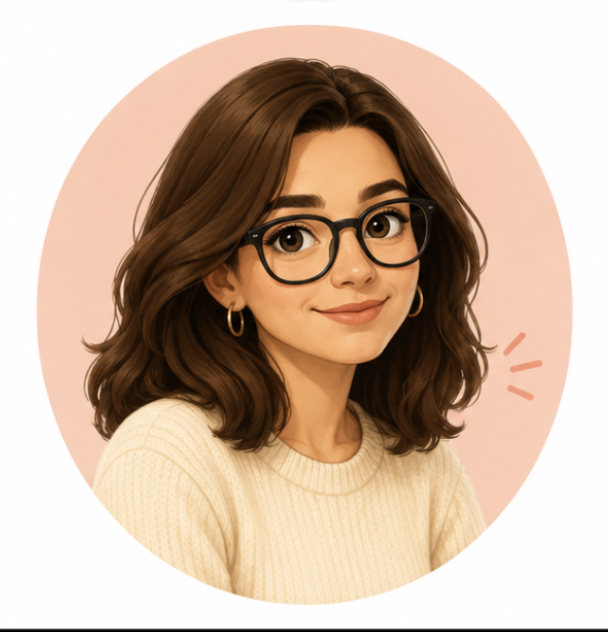
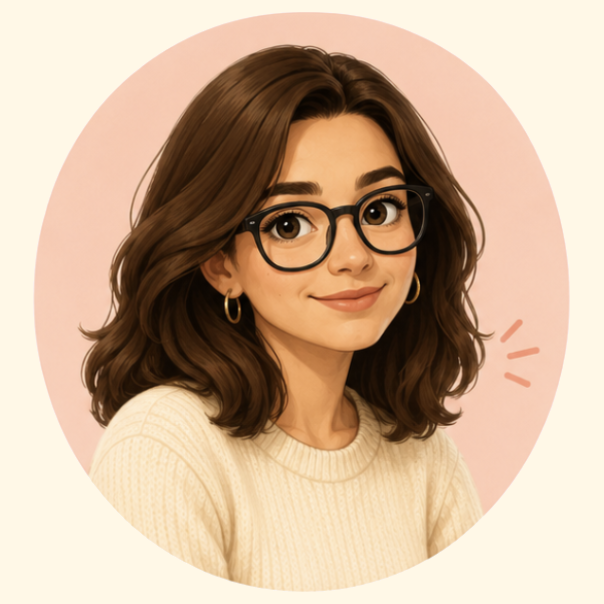
Vitrină de 8 clienți pe panou, pozele echipei pe cremul site-ului
Panoul: doar 8 logouri, în ordinea cerută (Piano House, Casa Irlandeză,
Belvedere Murighiol, La Nașu, Elektro Kasper, Caprice, Izora, Viovas), plus
un buton „Vezi toate proiectele" care duce în portofoliu. Ordinea stă în
`sloguriVitrina`, la finalul lui clienti.ts. Ceilalți nu dispar: trec prin
banda de deasupra și apar toți în Portofoliu.

Butonul are umbra crem, nu neagră — pe panoul negru cea neagră nu se vedea
și butonul își pierdea relieful.

Echipa: pozele veneau cu fundal alb (#fefefe), care nu e cremul cardului
(#fff8e7) — se vedea un pătrat mai deschis în jurul fiecărui portret.
scripts/prep-echipa.py găsește fundalul pornind din colțuri (deci albul din
haine rămâne neatins), îl vopsește exact în crem și taie poza fix pe cerc.
Se rulează cu `npm run echipa`. Una din poze avea și o dungă neagră rămasă
pe muchia de jos de la salvarea capturii — o recunoaște după faptul că e
perfect plată, cum nu are cum să fie un rând din portret.

Cardul arată acum numele mic, iar sub el rolul. Numele (Emanuel, Ioana,
Bogdan, Sofia, David) sunt cele din fișierele originale.

diff --git a/src/data/echipa.ts b/src/data/echipa.ts
@@ -5,17 +5,19 @@
  *  Ordinea de aici e ordinea de pe site.
  *
  *  POZELE stau in src/assets/echipa/. Campul `imagine` e numele
- *  fisierului FARA extensie. Ca sa schimbi o poza, inlocuieste
- *  fisierul pastrand acelasi nume — nu trebuie sa modifici nimic aici.
+ *  fisierului FARA extensie. Ca sa schimbi o poza, pune originalul in
+ *  /Echipa/ si ruleaza `npm run echipa` — scriptul ii scoate fundalul alb
+ *  si il inlocuieste cu cremul site-ului.
  *  Daca `imagine` e "" sau fisierul lipseste, se deseneaza automat
  *  un avatar-substitut, ca sa nu ramana un loc gol.
  * ============================================================
  */
 
 export type Membru = {
-  /** Rolul — asta e titlul cardului. */
+  /** Rolul, scris sub nume. */
   rol: string;
-  /** Numele persoanei. Optional: lasa "" si se afiseaza doar rolul. */
+  /** Numele persoanei — asta e titlul cardului.
+   *  Optional: lasa "" si ramane doar rolul. */
   nume: string;
   /** O singura propozitie, pe intelesul oricui. Fara termeni tehnici. */
   descriere: string;
@@ -29,7 +31,7 @@ export type Membru = {
 export const echipa: Membru[] = [
   {
     rol: "Project Manager",
-    nume: "", // ⚠ pune numele aici daca vrei sa apara
+    nume: "Emanuel",
     descriere:
       "Persoana cu care vorbești de la primul mesaj până la lansare: înțelege ce vrei, ține totul în grafic și îți spune mereu unde suntem.",
     atributii: ["Discuția inițială", "Obiective", "Structura site-ului", "Termene"],
@@ -38,7 +40,7 @@ export const echipa: Membru[] = [
   },
   {
     rol: "UX/UI Designer",
-    nume: "",
+    nume: "Ioana",
     descriere:
       "Decide cum arată site-ul și unde stă fiecare buton, ca vizitatorul să găsească din prima ce caută, fără să se piardă.",
     atributii: ["Aspectul paginilor", "Culori și fonturi", "Identitate vizuală"],
@@ -47,7 +49,7 @@ export const echipa: Membru[] = [
   },
   {
     rol: "Web Developer",
-    nume: "",
+    nume: "Bogdan",
     descriere:
       "Transformă desenul în site care chiar funcționează — la fel de bine pe telefon, pe tabletă și pe calculator.",
     atributii: ["Construcția site-ului", "Funcționalități", "Afișare pe telefon"],
@@ -56,7 +58,7 @@ export const echipa: Membru[] = [
   },
   {
     rol: "Content & Copywriting",
-    nume: "",
+    nume: "Sofia",
     descriere:
       "Scrie textele de pe site, ca omul care intră să înțeleagă din primele secunde ce faci și de ce merită să te aleagă.",
     atributii: ["Textele paginilor", "Descrieri de servicii", "Optimizare pentru Google"],
@@ -65,7 +67,7 @@ export const echipa: Membru[] = [
   },
   {
     rol: "QA & Optimizare",
-    nume: "",
+    nume: "David",
     descriere:
       "Verifică tot site-ul înainte de lansare și se asigură că se încarcă repede și că nimic nu se strică pe niciun telefon.",
     atributii: ["Testare pe dispozitive reale", "Viteză de încărcare", "Verificări finale"],

diff --git a/src/data/clienti.ts b/src/data/clienti.ts
@@ -287,8 +287,32 @@ export function clientDupaSlug(slug: string): Client | undefined {
   return clienti.find((c) => c.slug === slug);
 }
 
+/**
+ * VITRINA — cei opt clienti afisati pe panoul de pe prima pagina, exact in
+ * ordinea de mai jos. Restul nu dispar: se vad in banda care ruleaza deasupra
+ * si toti, pana la ultimul, in sectiunea Portofoliu.
+ *
+ * Ca sa schimbi vitrina, rescrie slugurile de aici. Un slug scris gresit e
+ * pur si simplu sarit, nu strica pagina.
+ */
+export const sloguriVitrina = [
+  "piano-house",
+  "casa-irlandeza",
+  "pensiunea-belvedere",
+  "pensiunea-la-nasu",
+  "elektro-kasper",
+  "caprice-events",
+  "pensiunea-izora",
+  "scoala-auto-viovas",
+] as const;
+
 /** Clientul urmator din lista, ca vizitatorul sa continue navigarea. */
 export function clientUrmator(slug: string): Client {
   const i = clienti.findIndex((c) => c.slug === slug);
   return clienti[(i + 1) % clienti.length]!;
 }
+
+/** Clientii din vitrina, in ordinea din `sloguriVitrina`. */
+export const clientiVitrina: Client[] = sloguriVitrina
+  .map((slug) => clientDupaSlug(slug))
+  .filter((c): c is Client => c !== undefined);

diff --git a/src/styles/global.css b/src/styles/global.css
@@ -210,6 +210,12 @@ h1, h2, h3, h4 {
   image-rendering: -webkit-optimize-contrast;
 }
 
+/* Pe panoul negru, umbra neagra a butoanelor nu se vede si relieful dispare.
+   O facem crem, ca butonul sa arate la fel de „apasabil" ca pe restul paginii. */
+.nb-pe-negru { box-shadow: 6px 6px 0 var(--color-crem); }
+.nb-pe-negru.nb-press:hover { box-shadow: 9px 9px 0 var(--color-crem); }
+.nb-pe-negru.nb-press:active { box-shadow: 2px 2px 0 var(--color-crem); }
+
 /* ============================================================
    MISCARE
    ============================================================ */

diff --git a/scripts/prep-echipa.py b/scripts/prep-echipa.py
@@ -1,0 +1,167 @@
+#!/usr/bin/env python3
+"""
+Pregateste pozele echipei pentru site.
+
+Pozele vin ca portret rotund asezat pe un fundal alb. Alb-ul ala (#fefefe)
+NU e acelasi cu cremul site-ului (#fff8e7), asa ca in card se vedea un patrat
+mai deschis in jurul portretului. Scriptul:
+
+  1. gaseste fundalul (zona alba lipita de marginea pozei, nu si albul din
+     haine — porneste din colturi si se intinde doar prin pixeli vecini);
+  2. il vopseste exact in cremul site-ului, ca sa se piarda in card;
+  3. taie poza fix pe cerc si o aduce la patrat, ca toate cele cinci sa aiba
+     aceeasi marime;
+  4. o micsoreaza la 640px — dublul dimensiunii la care e afisata, cat sa fie
+     clara si pe ecrane retina.
+
+Portretul in sine nu e atins: nici decupat, nici recolorat.
+
+Rulare:  python3 scripts/prep-echipa.py
+"""
+
+from __future__ import annotations
+
+import sys
+from pathlib import Path
+
+from PIL import Image, ImageChops, ImageDraw, ImageFilter
+
+SURSA = Path("Echipa")
+DEST = Path("src/assets/echipa")
+
+# Cremul din src/styles/global.css (--color-crem). Daca il schimbi acolo,
+# schimba-l si aici si ruleaza scriptul din nou.
+CREM = (0xFF, 0xF8, 0xE7)
+
+# Fisier original -> numele fisierului final (campul `imagine` din echipa.ts)
+HARTA = {
+    "Project Manager - Emanuel.png": "project-manager",
+    "UX:UI Designer - Ioana.png": "ux-ui-designer",
+    "Web Developer- Bogdan.png": "web-developer",
+    "Copywriting Specialist - Sofia.png": "copywriting",
+    "QA & Optimization - David.png": "qa-optimizare",
+}
+
+LATURA = 640  # dublul celor 320px la care e afisata poza pe ecran mare
+
+
+def taie_dunga_de_pe_margine(im: Image.Image) -> Image.Image:
+    """Scoate dunga ramasa pe marginea unei capturi.
+
+    Una din poze avea pe muchia de jos patru randuri de la negru spre alb —
+    resturi de la salvarea capturii. Daca le lasam, umplerea din colturi le
+    ocolea si ramaneau ca o linie sub portret.
+
+    Le recunoastem dupa faptul ca sunt PLATE: un rand de 600 de pixeli din
+    portret are mereu variatie, o dunga de captura are toti pixelii identici.
+    """
+    r, g, b = im.split()
+    minim = ImageChops.darker(ImageChops.darker(r, g), b)
+    px = minim.load()
+
+    def intunecat(pixeli) -> bool:
+        pixeli = list(pixeli)
+        plat = max(pixeli) - min(pixeli) <= 8
+        return plat and sum(pixeli) / len(pixeli) < 235
+
+    x0, y0, x1, y1 = 0, 0, im.width, im.height
+    for _ in range(8):
+        if y0 < y1 and intunecat(px[x, y0] for x in range(x0, x1)):
+            y0 += 1
+        elif y0 < y1 and intunecat(px[x, y1 - 1] for x in range(x0, x1)):
+            y1 -= 1
+        elif x0 < x1 and intunecat(px[x0, y] for y in range(y0, y1)):
+            x0 += 1
+        elif x0 < x1 and intunecat(px[x1 - 1, y] for y in range(y0, y1)):
+            x1 -= 1
+        else:
+            break
+
+    return im if (x0, y0, x1, y1) == (0, 0, im.width, im.height) else im.crop((x0, y0, x1, y1))
+
+
+def masca_fundal(im: Image.Image) -> Image.Image:
+    """Zona de fundal: alb lipit de marginea pozei.
+
+    Pornim din cele patru colturi si ne intindem doar prin pixeli albi vecini.
+    Asa albul din camasa sau din pulover ramane neatins — nu are cum sa fie
+    legat de marginea pozei fara sa treaca prin portret.
+    """
+    r, g, b = im.split()
+    minim = ImageChops.darker(ImageChops.darker(r, g), b)
+    alb = minim.point(lambda v: 255 if v >= 240 else 0)
+
+    colturi = [(0, 0), (im.width - 1, 0), (0, im.height - 1), (im.width - 1, im.height - 1)]
+    for coltz in colturi:
+        if alb.getpixel(coltz) == 255:
+            ImageDraw.floodfill(alb, coltz, 128)
+    return alb.point(lambda v: 255 if v == 128 else 0)
+
+
+def vopseste(im: Image.Image, fundal: Image.Image) -> Image.Image:
+    """Inlocuieste fundalul cu crem, inclusiv firul de pixeli de pe muchie.
+
+    Marginea cercului e antialiasata: are un fir de pixeli intre alb si
+    portret, pe care umplerea din colturi nu-l prinde. Il luam separat —
+    doar pe cei care sunt inca aproape albi — ca sa nu ramana un inel palid
+    in jurul portretului.
+    """
+    plin = Image.new("RGB", im.size, CREM)
+    im = Image.composite(plin, im, fundal)
+
+    r, g, b = im.split()
+    minim = ImageChops.darker(ImageChops.darker(r, g), b)
+    vecinatate = fundal.filter(ImageFilter.MaxFilter(5))
+    muchie = ImageChops.multiply(vecinatate, minim.point(lambda v: 255 if v >= 246 else 0))
+    return Image.composite(plin, im, muchie)
+
+
+def taie_pe_cerc(im: Image.Image, fundal: Image.Image) -> Image.Image:
+    """Taie fix pe portret, apoi completeaza cu crem pana iese patrat."""
+    cutie = fundal.point(lambda v: 0 if v == 255 else 255).getbbox()
+    if not cutie:
+        return im
+
+    aer = round(max(cutie[2] - cutie[0], cutie[3] - cutie[1]) * 0.02)
+    x0 = max(0, cutie[0] - aer)
+    y0 = max(0, cutie[1] - aer)
+    x1 = min(im.width, cutie[2] + aer)
+    y1 = min(im.height, cutie[3] + aer)
+    im = im.crop((x0, y0, x1, y1))
+
+    latura = max(im.size)
+    patrat = Image.new("RGB", (latura, latura), CREM)
+    patrat.paste(im, ((latura - im.width) // 2, (latura - im.height) // 2))
+    return patrat
+
+
+def main() -> int:
+    if not SURSA.is_dir():
+        print(f"Lipseste folderul {SURSA}/ — pozele originale ale echipei.", file=sys.stderr)
+        return 1
+    DEST.mkdir(parents=True, exist_ok=True)
+
+    for fisier, slug in HARTA.items():
+        cale = SURSA / fisier
+        if not cale.exists():
+            print(f"  ! lipseste {cale}", file=sys.stderr)
+            continue
+
+        im = Image.open(cale).convert("RGB")
+        im = taie_dunga_de_pe_margine(im)
+        fundal = masca_fundal(im)
+        im = vopseste(im, fundal)
+        im = taie_pe_cerc(im, fundal)
+
+        if im.width > LATURA:
+            im = im.resize((LATURA, LATURA), Image.LANCZOS)
+
+        iesire = DEST / f"{slug}.png"
+        im.save(iesire, optimize=True)
+        print(f"  ✓ {slug:18s} {im.width}×{im.height}  {iesire.stat().st_size // 1024:4d} KB")
+
+    return 0
+
+
+if __name__ == "__main__":
+    raise SystemExit(main())

diff --git a/README.md b/README.md
@@ -41,6 +41,11 @@ Ca să adaugi un client: copiază un bloc `{ ... }`, lipește-l în listă, schi
 
 **`logo` și `logoFundal`** le completează scriptul de logouri, nu tu de mână. Vezi mai jos.
 
+**Pe prima pagină apar doar 8 clienți**, cei din lista `sloguriVitrina` de la finalul
+fișierului, exact în ordinea de acolo. Ceilalți nu dispar: trec prin banda care rulează
+deasupra și apar toți în secțiunea Portofoliu, la care duce butonul „Vezi toate proiectele".
+Ca să schimbi vitrina, rescrie slugurile din listă.
+
 **`linkSite`** e câmpul pe care îl completezi la final. Cât timp e `""`, butonul afișează
 „Site-ul se publică în curând" și nu duce nicăieri — nu rămâne niciun link rupt.
 Când pui adresa, butonul devine activ singur.
@@ -80,9 +85,10 @@ unde sunt scrise explicit.
 ### 5. Echipa — `src/data/echipa.ts`
 
 Cele cinci roluri sunt deja scrise, în ordinea în care apar pe site. Titlul cardului e
-**rolul**; câmpul `nume` e opțional — dacă îl lași `""`, se afișează doar rolul.
+**numele**, iar sub el, mai mic, stă rolul. Dacă lași `nume` gol (`""`), rămâne doar rolul.
 
-`imagine` e numele fișierului din `src/assets/echipa/`, fără extensie.
+`imagine` e numele fișierului din `src/assets/echipa/`, fără extensie. Vezi mai jos cum se
+pregătesc pozele.
 
 ### 6. Imaginile
 
@@ -91,8 +97,26 @@ Pune fișierele în folderele de mai jos și scrie calea în fișierul de date c
 imagine lipsă nu lasă un pătrat gol.
 
 **Pozele echipei sunt excepția**: stau în `src/assets/echipa/`, nu în `public/`. Acolo Astro
-le optimizează la build — le-a dus de la ~4 MB la ~100 KB în total, trecându-le pe webp. Ca să
-schimbi o poză, înlocuiește fișierul păstrând același nume și gata.
+le optimizează la build — le-a dus de la ~4 MB la ~100 KB în total, trecându-le pe webp.
+
+#### Pozele echipei
+
+Originalele stau în `/Echipa/`, portrete rotunde pe fundal alb. Albul ăla **nu** e același cu
+cremul site-ului, așa că lăsat așa se vede un pătrat mai deschis în jurul portretului. Rulezi:
+
+```bash
+npm run echipa
+```
+
+Scriptul găsește fundalul (doar albul lipit de marginea pozei, ca să nu atingă albul din
+haine), îl vopsește exact în cremul cardului, taie poza fix pe cerc și o salvează în
+`src/assets/echipa/`. Portretul în sine nu e atins.
+
+Ca să schimbi o poză: pune originalul în `/Echipa/` cu același nume și rulează scriptul din
+nou. Dacă îi schimbi numele fișierului, adaugă-l în tabelul `HARTA` din `scripts/prep-echipa.py`.
+
+**Dacă schimbi cremul** din `src/styles/global.css`, schimbă-l și în `CREM` la începutul
+scriptului și rulează-l din nou — altfel fundalul pozelor rămâne pe culoarea veche.
 
 #### Logourile clienților
 
